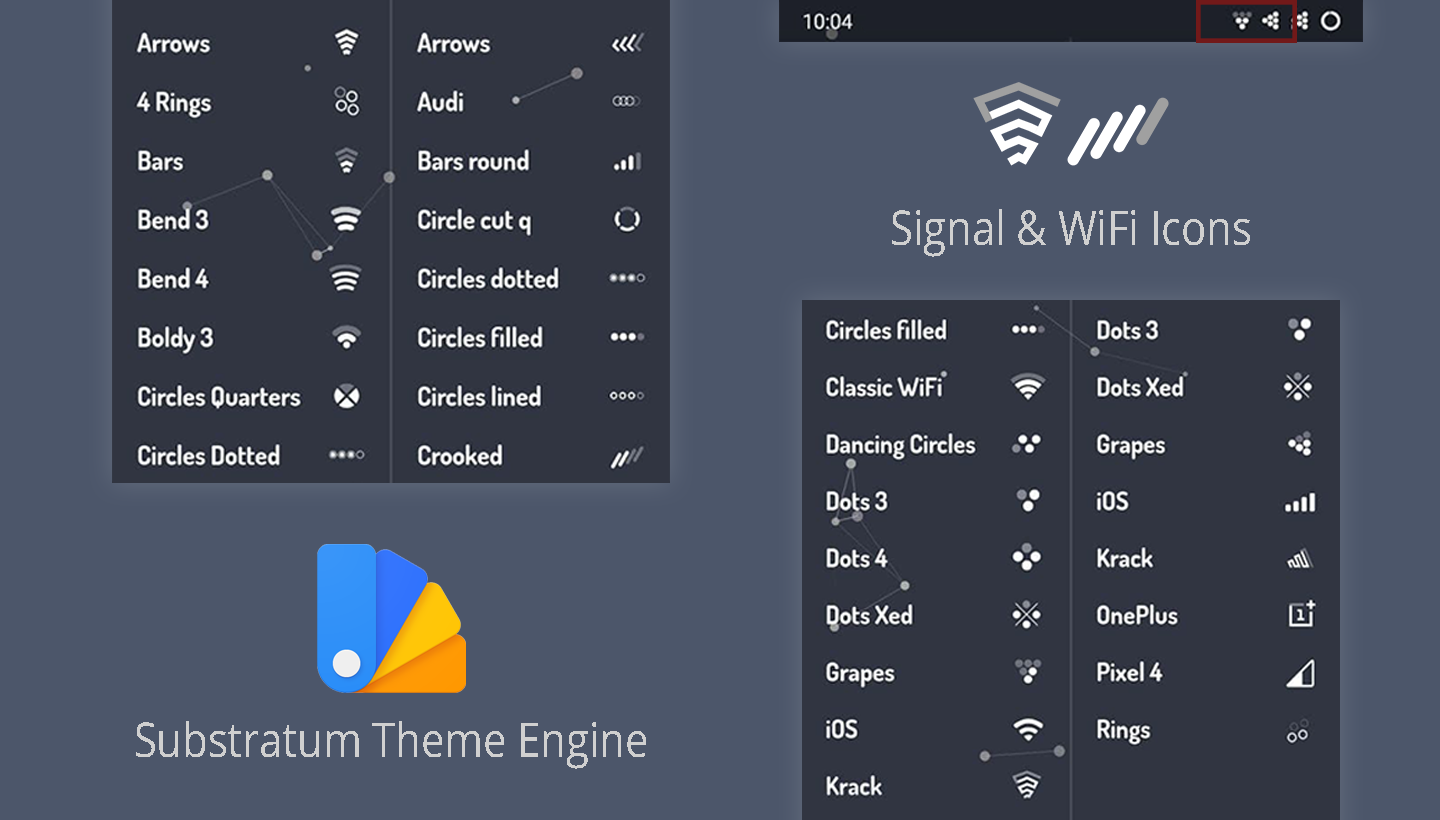
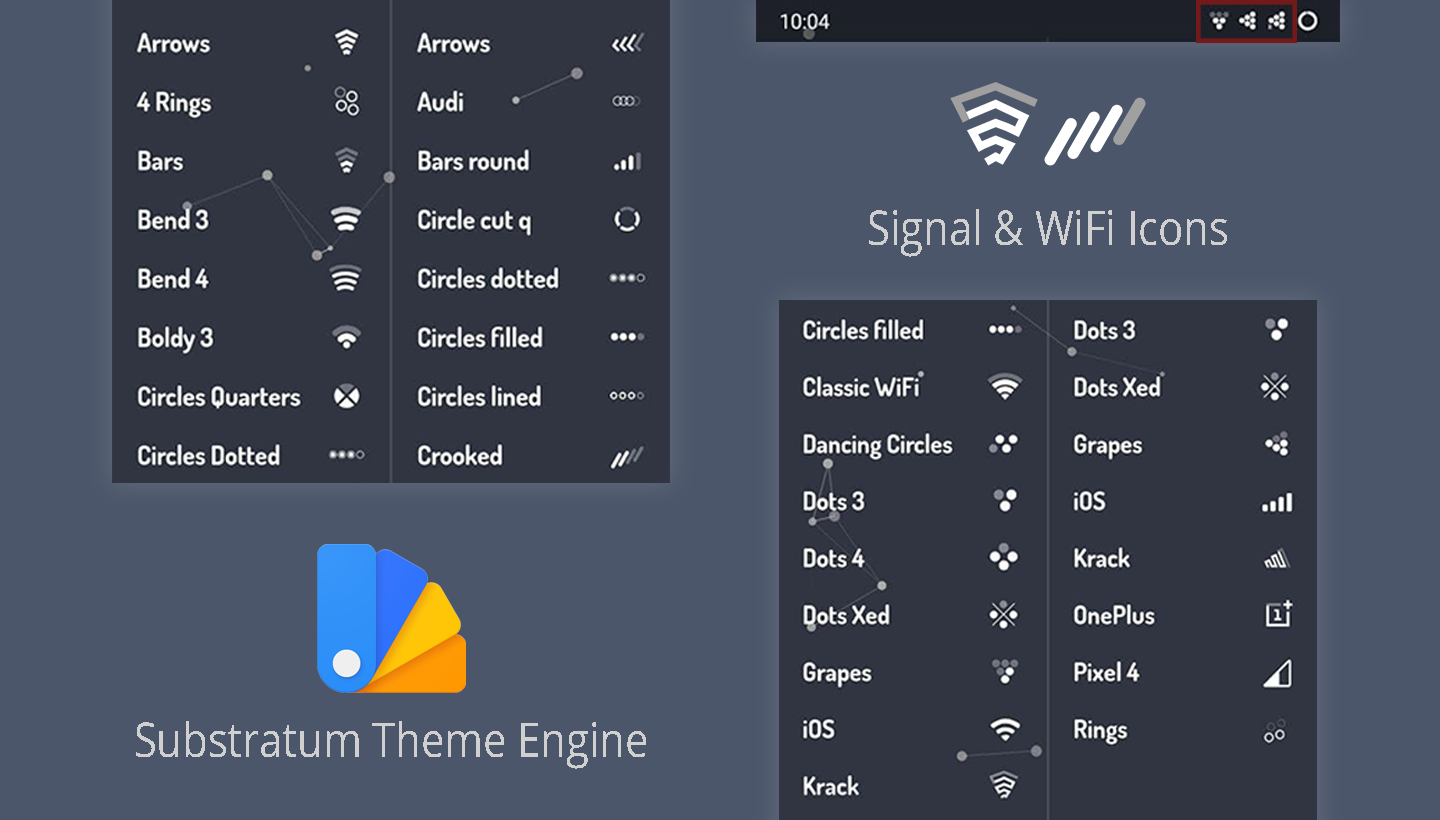
2

diff --git a/index.html b/index.html
@@ -160,19 +160,20 @@
         <div class="contents" style="text-align: center;">
           <h3>Signal & WiFi Icons Theme</h3>
           <div>
-            <i height="32" class="devicon-kotlin-plain-wordmark colored"></i>
+            <i class="devicon-kotlin-plain-wordmark colored"></i>
             <i height="32" class="devicon-android-plain colored"></i>
           </div>
           <p style="text-align: justify;">
-            I developed and designed a website using Bootstrap and vanilla
-            JavaScript to showcase my résumé in an interactive and
-            visually-appealing format. I'm currently in the middle of migrating
-            the project to a ReactJS framework with GatsbyJS.
+            A project which started in 2017 with just a small modified WiFi icon on Android Marshmallow.
+            Rooting my phone and using the Substratum theme engine makes it possible to modify the system icons,
+            which i did.
+            Right now, there are over 1000 active and happy users including me.<br>
+            Because Details Matter
           </p>
           <a
             class="project-link"
             target="_blank"
-            href="https://www.adityavsingh.com/"
+            href="https://play.google.com/store/apps/details?id=svandasek.theme.signalicons"
             >Check it out!</a
           >
         </div>
